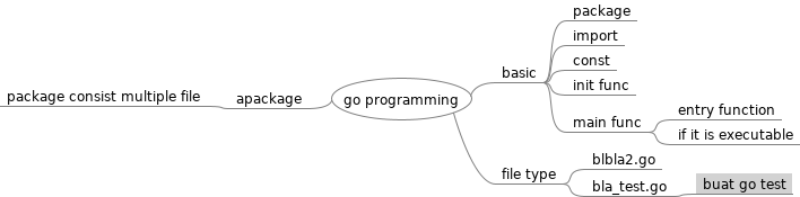
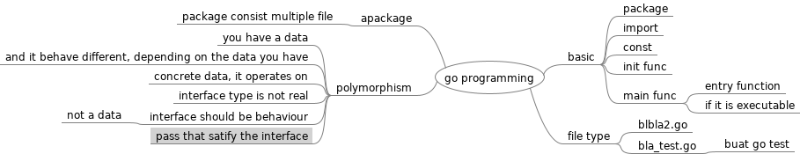
update lecture notes

diff --git a/go programming.mm b/go programming.mm
@@ -20,5 +20,15 @@
 <node CREATED="1647080159620" ID="ID_748445212" MODIFIED="1647080163605" TEXT="buat go test"/>
 </node>
 </node>
+<node CREATED="1650985717691" ID="ID_608546215" MODIFIED="1650985721476" POSITION="left" TEXT="polymorphism">
+<node CREATED="1650985721710" ID="ID_1699084479" MODIFIED="1650985726338" TEXT="you have a data"/>
+<node CREATED="1650985726595" ID="ID_1333138202" MODIFIED="1650985738872" TEXT="and it behave different, depending on the data you have"/>
+<node CREATED="1650985765495" ID="ID_1380475107" MODIFIED="1650985772292" TEXT="concrete data, it operates on"/>
+<node CREATED="1650985908191" ID="ID_226565800" MODIFIED="1650985915154" TEXT="interface type is not real"/>
+<node CREATED="1650986011710" ID="ID_664520900" MODIFIED="1650986019645" TEXT="interface should be behaviour">
+<node CREATED="1650986020075" ID="ID_222497931" MODIFIED="1650986028371" TEXT="not a data"/>
+</node>
+<node CREATED="1650986820791" ID="ID_1094528958" MODIFIED="1650986832781" TEXT="pass that satify the interface"/>
+</node>
 </node>
 </map>

diff --git a/How DNS works.mm b/How DNS works.mm
@@ -12,5 +12,14 @@
 <node CREATED="1650806791764" ID="ID_801728131" MODIFIED="1650806825485" TEXT="authorative,.com"/>
 <node CREATED="1650806800614" ID="ID_1040761062" MODIFIED="1650806809871" TEXT="authorative for example.com"/>
 </node>
+<node CREATED="1650813896659" ID="ID_1277005202" MODIFIED="1650813898641" POSITION="left" TEXT="ttl">
+<node CREATED="1650813898919" ID="ID_670248449" MODIFIED="1650813901175" TEXT="time to live"/>
+</node>
+<node CREATED="1650813947935" ID="ID_168175347" MODIFIED="1650813948990" POSITION="right" TEXT="A">
+<node CREATED="1650813949252" ID="ID_856280047" MODIFIED="1650813951045" TEXT="address"/>
+</node>
+<node CREATED="1650814169514" ID="ID_1921902670" MODIFIED="1650814176871" POSITION="left" TEXT="domain authorative namespaces"/>
+<node CREATED="1650814393568" ID="ID_1388149930" MODIFIED="1650814403113" POSITION="right" TEXT="ganti NS itu lama, perlu 2 hari"/>
+<node CREATED="1650964176213" ID="ID_1716537538" MODIFIED="1650964180154" POSITION="left" TEXT="DNS delegation"/>
 </node>
 </map>
